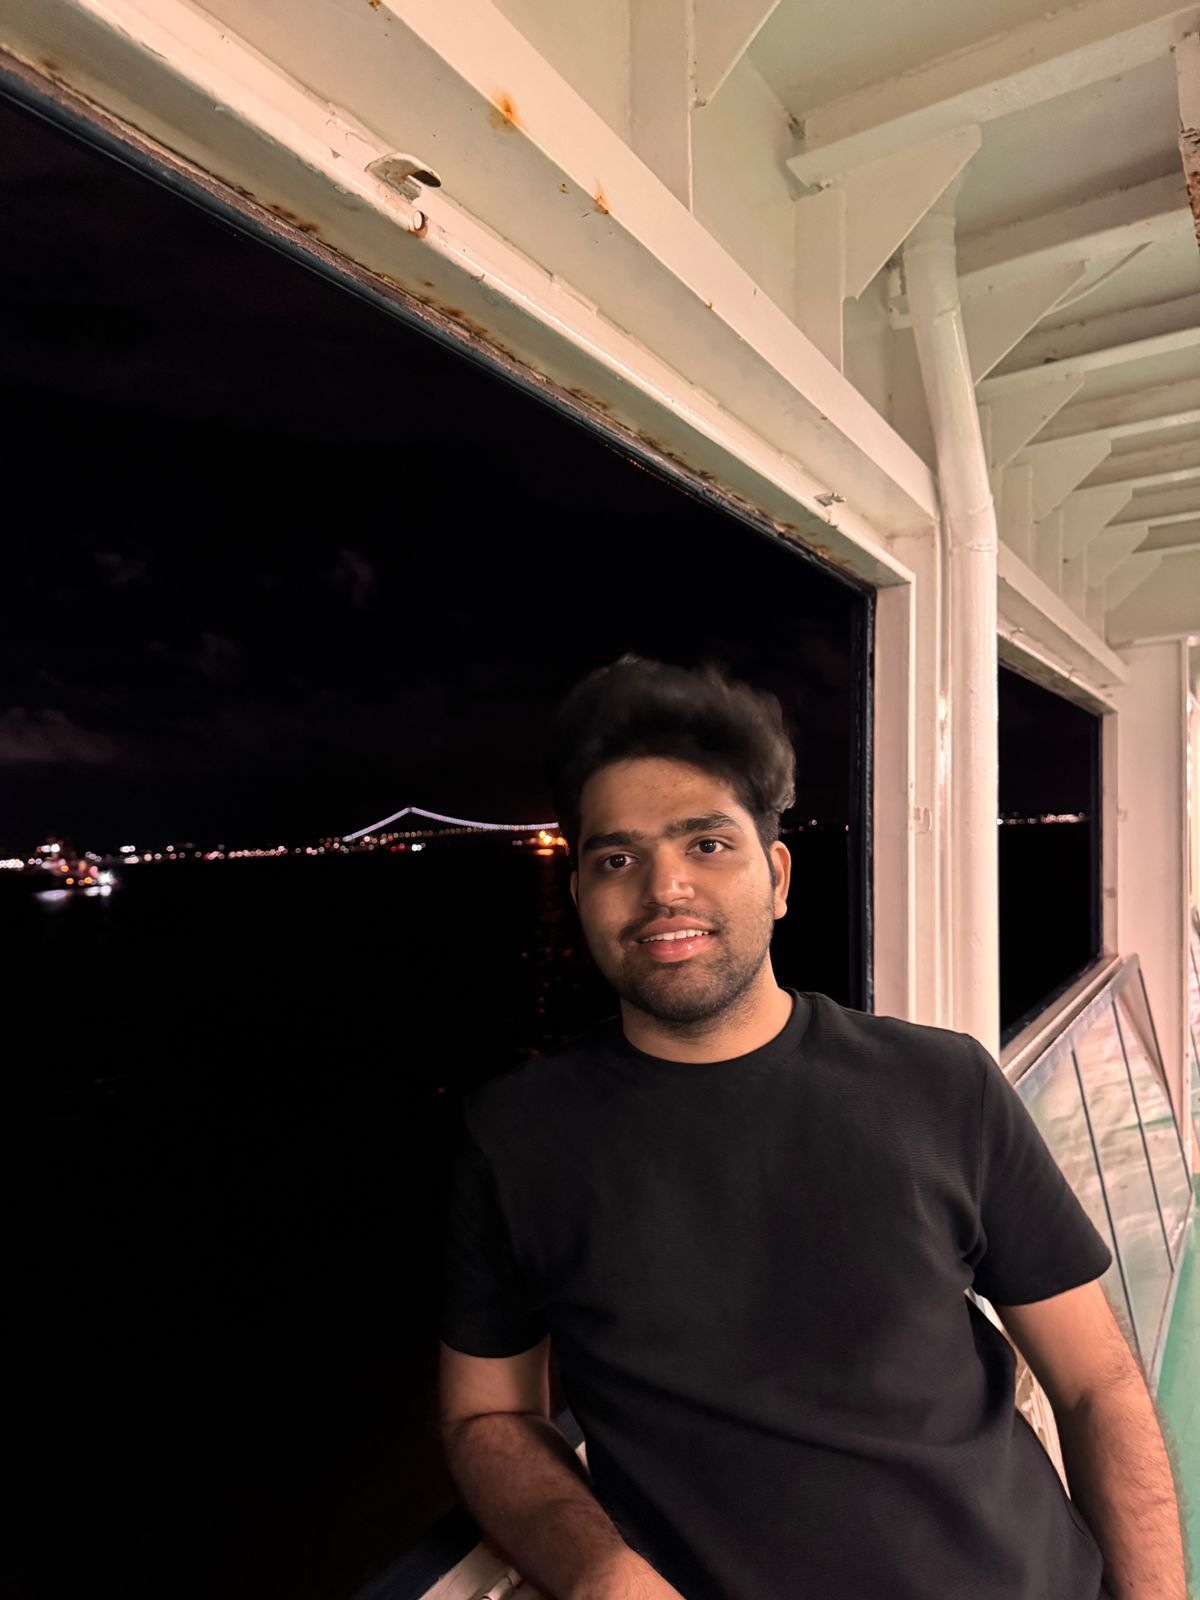
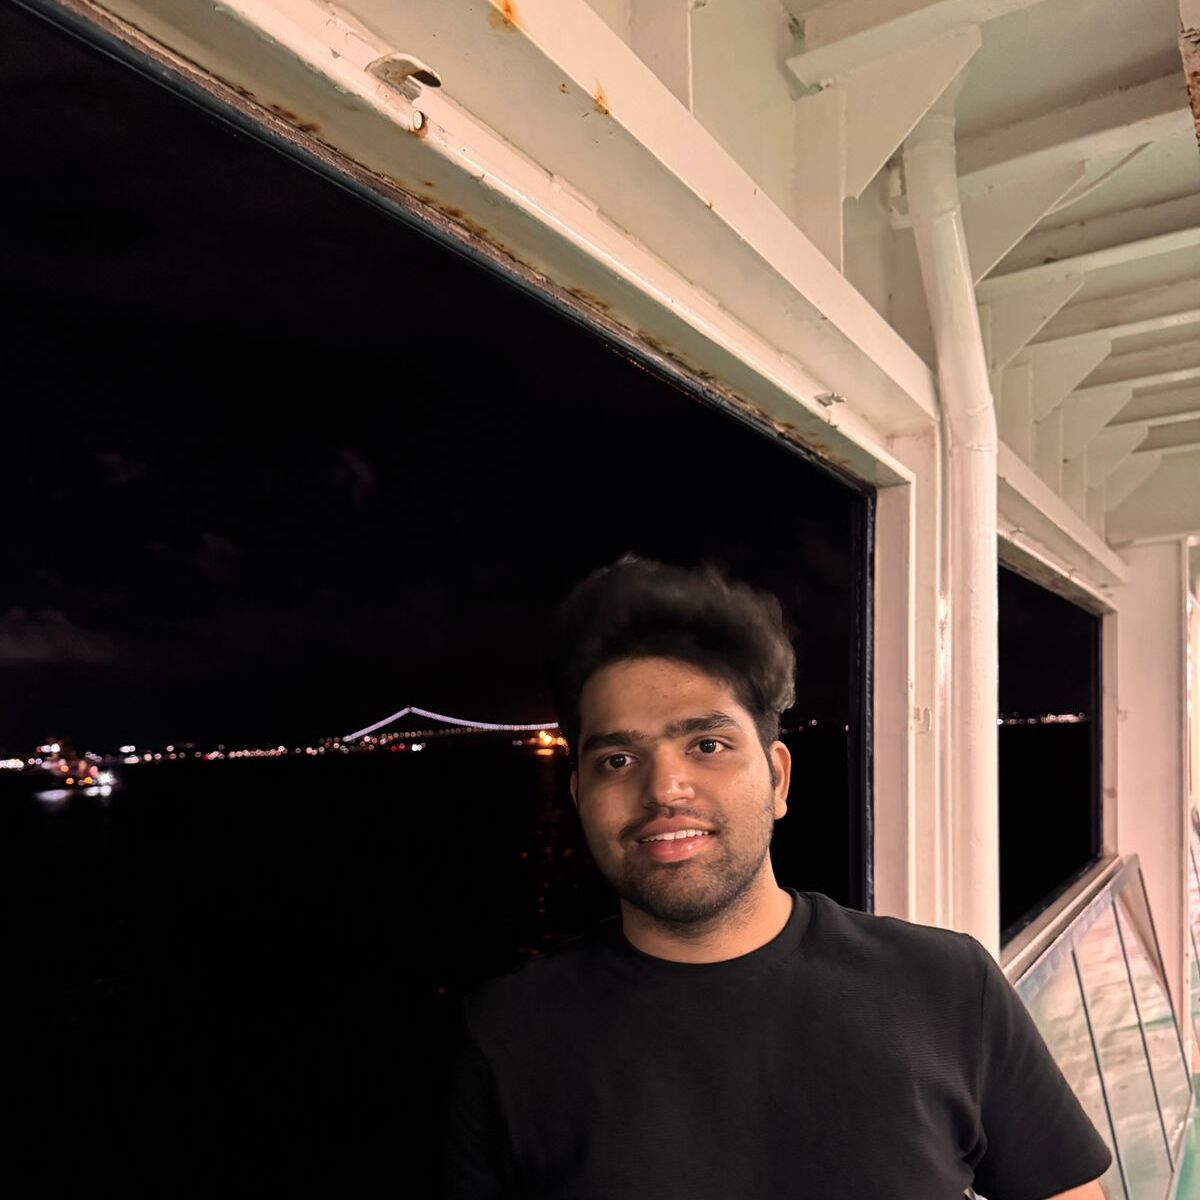
Update title to Ex-Researcher and crop profile picture

diff --git a/_pages/about.md b/_pages/about.md
@@ -2,7 +2,7 @@
 layout: about
 title: about
 permalink: /
-subtitle: MSCS @ <a href="https://cims.nyu.edu/dynamic/">NYU Courant</a> | B.Tech CS @ <a href="https://www.iiit.ac.in/">IIIT Hyderabad</a> | Researcher @ <a href="https://rocon.in/people">RRC</a>
+subtitle: MSCS @ <a href="https://cims.nyu.edu/dynamic/">NYU Courant</a> | B.Tech CS @ <a href="https://www.iiit.ac.in/">IIIT Hyderabad</a> | Ex-Researcher @ <a href="https://rocon.in/people">RRC</a>
 
 profile:
   align: right